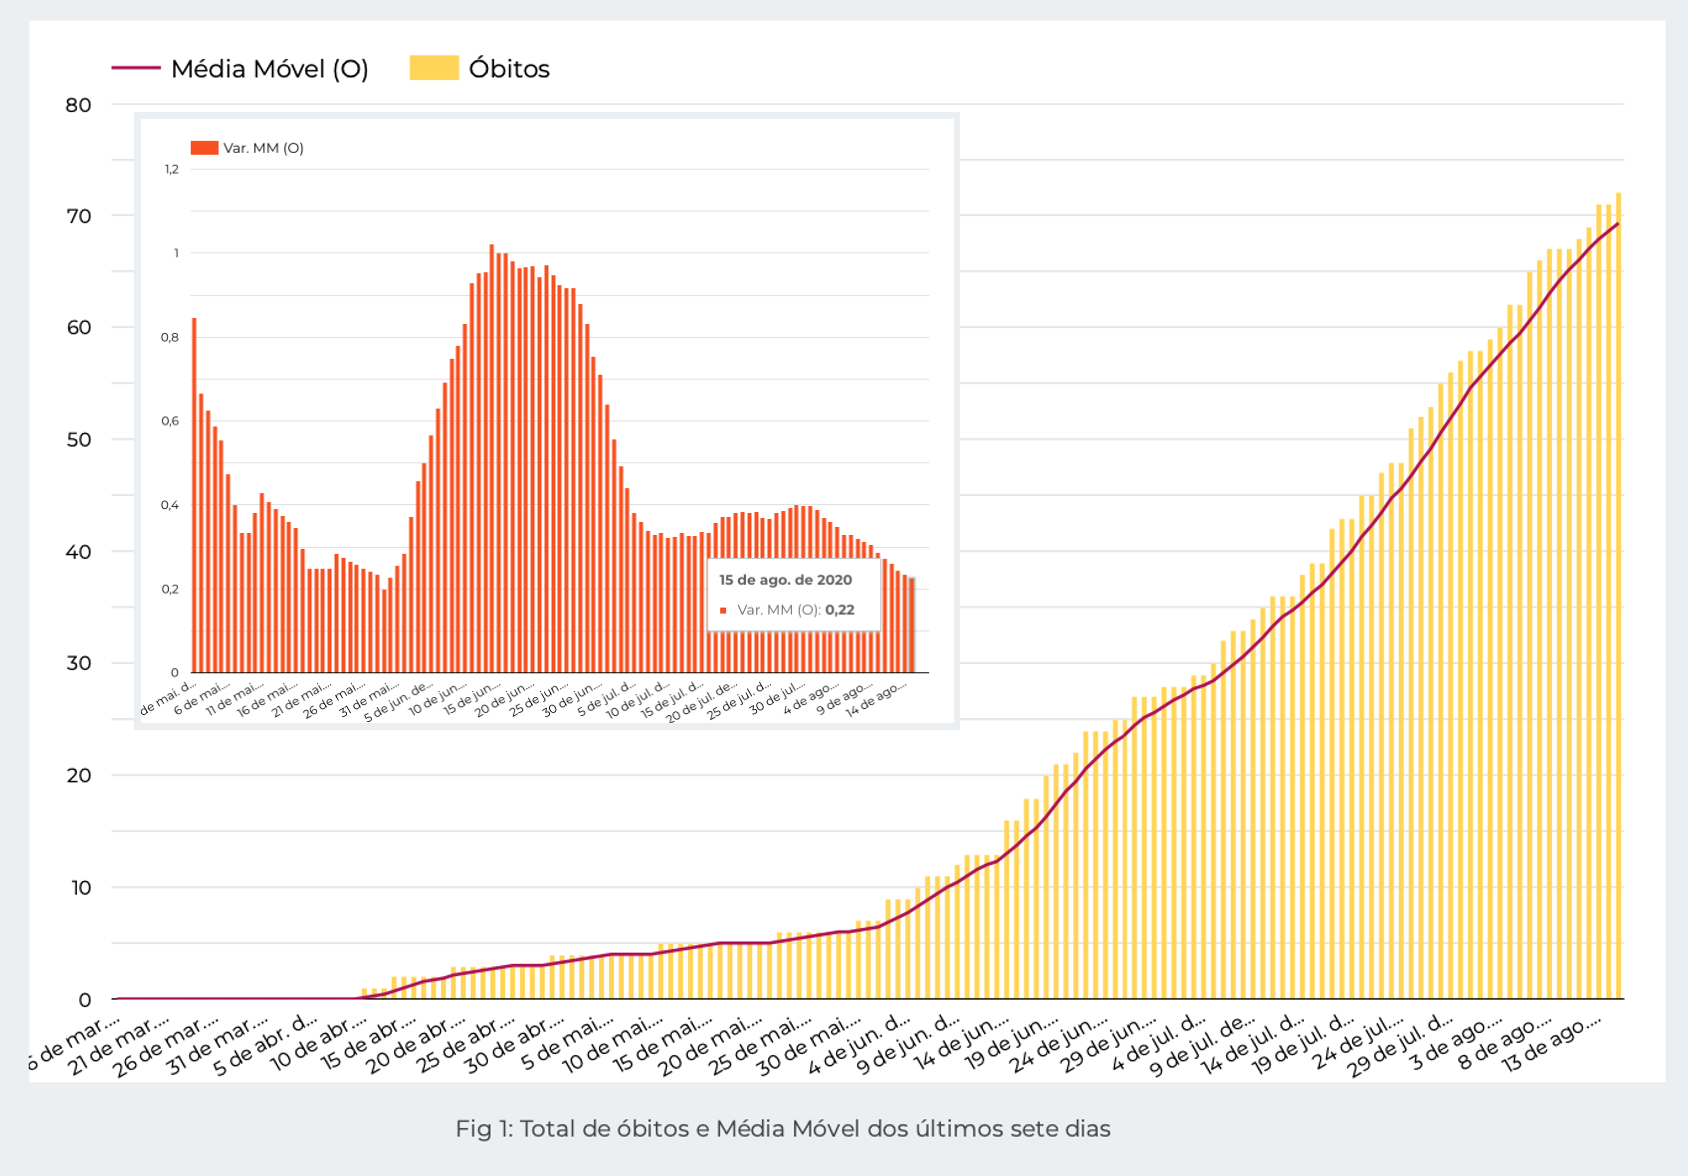
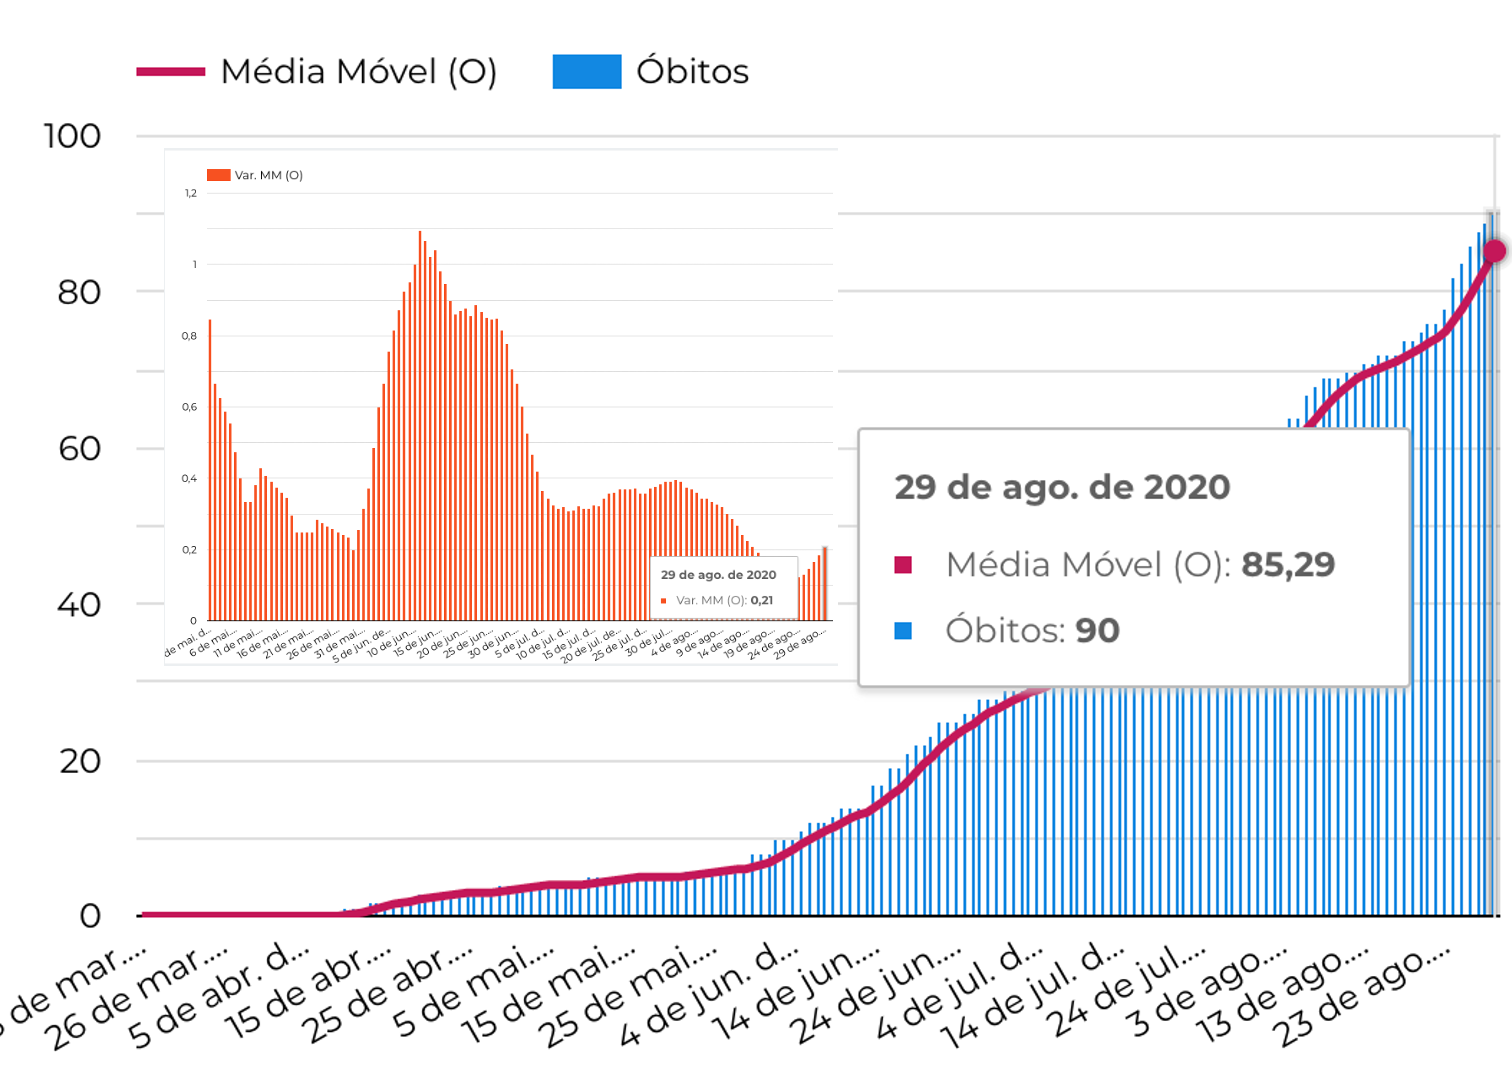
atualizacao

diff --git a/index.html b/index.html
@@ -146,8 +146,8 @@
 
         <p class="text-justify mt-3">
             <ul>
-            <li>No dia de hoje (15/08/2020), acumulamos 2427 casos notificados.</li>
-            <li>Projeção para dia 20 de agosto é de 2569 podendo chegar até 2816 casos notificados, como indicado pela faixa cinza.</li>
+            <li>No dia de hoje (29/08/2020), acumulamos 3298 casos notificados.</li>
+            <li>Projeção para dia 03 de setembro é de 3553 podendo chegar até 3845 casos notificados, como indicado pela faixa cinza.</li>
             <li>Pontos pretos: número de casos confirmados a cada dia.</li>
             <li>Pontos laranjas: a previsão para os próximos 5 dias.</li>
             </ul>
@@ -175,7 +175,7 @@
         </div>
 
         <p class="text-justify mt-3">
-        Todos os dados foram obtidos da própria Secretária Municipal de Saúde de Uberaba até o dia 15 de agosto de 2020.
+        Todos os dados foram obtidos da própria Secretária Municipal de Saúde de Uberaba até o dia 29 de agosto de 2020.
         </p>
 
 <!--        <a href="https://datastudio.google.com/reporting/1CX1pHjDrbb7X1gEIeVY1sxQp8PziWgpN/page/g6OUB?s=hWFHXQaeMZY" target="_blank">
@@ -192,7 +192,7 @@
         <p class="text-justify mt-3"> Figura 2: Indicadores dos casos de Covid-19 em Uberaba. Clique na imagem para ver o gráfico interativo </p>
 
         <p class="text-justify mt-3">
-        Os gráficos da Figura 2 apresentam um panorama geral da evolução da covid-19 na cidade de Uberaba. No dia 15/08/2020 a cidade apresenta 2427 casos notificados confirmados dos quais 81% são considerados recuperados.
+        Os gráficos da Figura 2 apresentam um panorama geral da evolução da covid-19 na cidade de Uberaba. No dia 29/08/2020 a cidade apresenta 3298 casos notificados confirmados dos quais 81% são considerados recuperados.
         </p>
 
         <div class="media-body">
@@ -207,7 +207,7 @@
         </p>
 
         <p class="text-justify mt-3">
-        A Figura 3, apresenta a média móvel dos casos confirmados considerando um intervalo de sete dias. A média móvel dos casos confirmados em Uberaba no dia 15/08 é de 2349.
+        A Figura 3, apresenta a média móvel dos casos confirmados considerando um intervalo de sete dias. A média móvel dos casos confirmados em Uberaba no dia 29/08 é de 3173.
         </p>
 
         <a href="https://datastudio.google.com/reporting/1eNQdQv-rpu3yne8bvqD71-j8gS44fYts/page/sLUUB?s=sfL5MYwUyi4" target="_blank">
@@ -221,7 +221,7 @@
         </p>
 
         <p class="text-justify mt-3">
-       A Figura 4 apresenta a curva de casos ativos ao longo do tempo junto com a média móvel considerando intervalos de sete dias. A média móvel de casos ativos da covid-19 no dia 15/08 é de 396.
+       A Figura 4 apresenta a curva de casos ativos ao longo do tempo junto com a média móvel considerando intervalos de sete dias. A média móvel de casos ativos da covid-19 no dia 29/08 é de 545.
         </p>
 
         <a href="https://datastudio.google.com/reporting/1eNQdQv-rpu3yne8bvqD71-j8gS44fYts/page/sLUUB?s=sfL5MYwUyi4" target="_blank">
@@ -251,7 +251,7 @@
         </p>
 
         <p class="text-justify mt-3">
-        O gráfico 5 apresenta a variação da média móvel para o total de casos confirmados de covid-19 na cidade de Uberaba, a partir do dia 01 de julho de 2020.
+        O gráfico 5 apresenta a variação da média móvel para o total de casos confirmados de covid-19 na cidade de Uberaba.
         </p>
 
         <a href="https://datastudio.google.com/reporting/1eNQdQv-rpu3yne8bvqD71-j8gS44fYts/page/sLUUB?s=sfL5MYwUyi4" target="_blank">
@@ -271,7 +271,7 @@
         <p class="text-justify mt-3"> Figura 6: Novos casos diários confirmados e média móvel </p>
 
         <p class="text-justify mt-3">
-        A Figura 7  apresenta a evolução da variação da média móvel dos novos casos diários a partir de 01 de julho de 2020. No dia 15/08 a variação é de -16%, nesse momento, indica situação de queda, de acordo com os parâmetros usados pelos especialistas.
+        A Figura 7  apresenta a evolução da variação da média móvel dos novos casos diários a partir de 01 de agosto de 2020. No dia 29/08 a variação é de 4%, nesse momento, indica situação de estabilidade, de acordo com os parâmetros usados pelos especialistas.
         </p>
 
 
@@ -288,15 +288,15 @@
         Duas taxas dão importantes quando precisa entender o número de óbitos de uma doença,  a taxa de letalidade e a taxa de mortalidade. A letalidade é uma taxa que compara o número de óbitos com a quantidade de pessoas infectadas pela doença. A mortalidade é um índice obtido por uma relação dos óbitos por uma causa específica em um determinado período de tempo para cada 100.000 habitantes da área analisada.
 
         <p class="text-justify mt-3">
-        <li> A <b> taxa de letalidade </b> é calculada como o número total de óbitos dividido pelo número total de casos confirmados. Hoje, a taxa de letalidade de Uberaba é de 2,97%. Isso significa que a cada 100 pessoas que tem o dignóstico confirmado de covid-19, 2,97 dessas pessoas podem vir a óbito.</li>
+        <li> A <b> taxa de letalidade </b> é calculada como o número total de óbitos dividido pelo número total de casos confirmados. Hoje, a taxa de letalidade de Uberaba é de 2,72%. Isso significa que a cada 100 pessoas que tem o dignóstico confirmado de covid-19, 2,72 dessas pessoas podem vir a óbito.</li>
         </p>
 
         <p class="text-justify mt-3">
-        <li>A <b>taxa de mortalidade </b> é calculada considerando o número de óbitos pelo número total da população de Uberaba vezes 100 mil. No dia 15/08/2020 a taxa de mortalidade é de 21,57/100mil habitantes. Isso significa que a cada 100 mil pessoas de Uberaba, 21,57 delas podem vir a óbito por causa da covid-19.</li>
+        <li>A <b>taxa de mortalidade </b> é calculada considerando o número de óbitos pelo número total da população de Uberaba vezes 100 mil. No dia 29/08/2020 a taxa de mortalidade é de 26,96/100mil habitantes. Isso significa que a cada 100 mil pessoas de Uberaba, 26,96 delas podem vir a óbito por causa da covid-19.</li>
         </p>
 
         <p class="text-justify mt-3">
-        O gráfico da Figura 8 apresenta a evolução do número de óbitos com a média móvel e também a variação dessa média. A variação da média móvel do número de óbitos é de 22%.
+        O gráfico da Figura 8 apresenta a evolução do número de óbitos com a média móvel e também a variação dessa média. A variação da média móvel do número de óbitos é de 21%.
         </p>
 
         <a href="https://datastudio.google.com/reporting/1eNQdQv-rpu3yne8bvqD71-j8gS44fYts/page/sLUUB?s=sfL5MYwUyi4" target="_blank">
